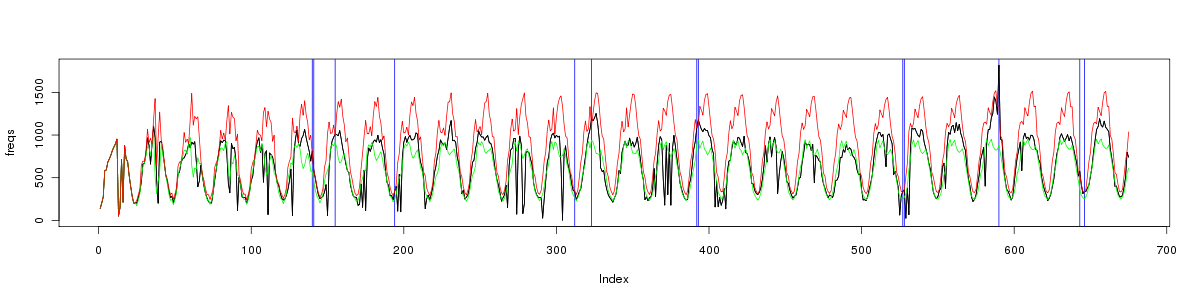
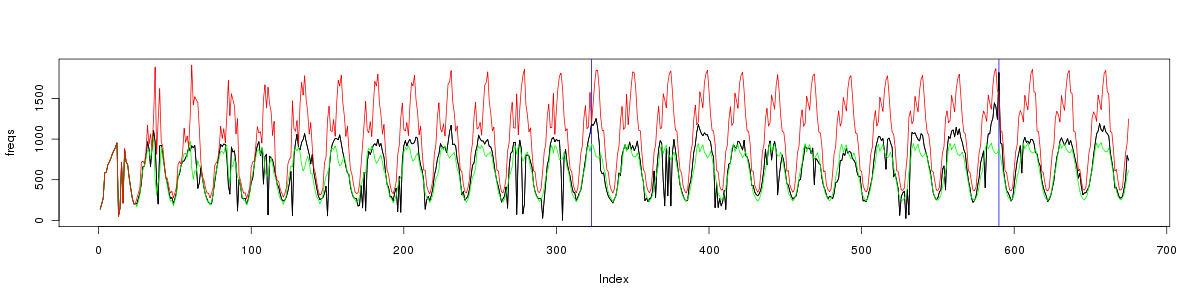
trends per 2grams, examples for apple juice, cream cheese, goats cheese etc

diff --git a/blognotes.html b/blognotes.html
@@ -33,12 +33,9 @@ normal flucuenation we compare to mean +/- 2x std dev
 <img src="tweets_over_day.60.trending.png"/>
 <img src="tweets_over_day.60.trending.zoom.png"/>
 
+this gives us a model for the entire dataset; simplest
+
 2. mean and std dev; compared to this time in previous days
-
-slot 9 - low point
-slot 22 - high point
-
-<img src="tweets_over_day.60.hi_low_trending.png"/>
 
 makes each time series much smoother; but not as good at predicting the overall trend.
 perhaps this needs to be more than 2x the std dev??
@@ -54,7 +51,14 @@ to same time of day the data is quite stable.
 <img src="tweets_over_day.60.periodic_trending.sliding.png"/>
 <img src="tweets_over_day.60.periodic_trending.sliding.zoom.png"/>
 
-3. per terms; mean and std dev over entire set
+slot 9 - low point
+slot 22 - high point
+
+<img src="tweets_over_day.60.hi_low_trending.png"/>
+
+this gives us model per 1hr chunk of the day; works well for values which are 'trending' even though the values are on the downturn
+
+3. mean and std dev; per term
 
 break down in terms in 1/2/3 grams
 
@@ -62,13 +66,35 @@ break down in terms in 1/2/3 grams
 1.5e6 uniq 2grams; 75% of which are uniq
 3.1e6 uniq 3grams; 86% of which are uniq
 
-so for breaking down into 3grams for trending what cutoff do i need to 
-make? no need to calculate for those that have only appeared a few number
-of times...
+
+#4 22532 grilled cheese
+<img src="tweets_over_day.60.grilledcheese.trending.png"/>
+<!--<img src="tweets_over_day.60.grilledcheese.trending.zoom.png"/>-->
+
+#5 18639 cream cheese
+<img src="tweets_over_day.60.creamcheese.trending.png"/>
+<!--<img src="tweets_over_day.60.creamcheese.trending.zoom.png"/>-->
+
+#412 763 goats cheese
+<img src="tweets_over_day.60.goatscheese.trending.png"/>
+<!--<img src="tweets_over_day.60.goatscheese.trending.zoom.png"/>-->
+
+#1483 288 apple juice
+<img src="tweets_over_day.60.applejuice.trending.png"/>
+
+#1434274 1 bus number
+
+433534 -> 1589981 are all frequency 1
+
+how to allow smaller frequency trends to trump trends of larger frequency items?
+while not letting low values to blow everything up 
+ie a 'freq' of 5 (from trend value of 2)
+perhaps trend value = Math.log10(freq) * (freq/min_trend)
+
+TODO
 
 4. per term; mean and std dev comapred to this time previous days
 ------------------------------------
-
 
 how can we notice when whether the direction has changed? is this stable?
 

diff --git a/specs/trend_spec.rb b/specs/trend_spec.rb
@@ -1,6 +1,6 @@
 require "#{File.dirname(__FILE__)}/../trend.rb"
 
-describe 'trending' do
+describe 'trending without zero values' do
   before do
     @trend = Trend.new([1,2,1,2,3])
   end
@@ -14,3 +14,73 @@ describe 'trending' do
   end
 
 end
+
+describe 'trending with zero values' do
+  before do
+    @trend = Trend.new([1,2,0,2,2])
+  end
+
+  it 'should cal min_trend value' do
+    @trend.min_trending_value.should == 3.0
+  end 
+end
+
+describe 'trending adding values explicitly' do
+  before do 
+    @trend = Trend.new
+    [1,2,0,2,2].each { |e| @trend << e }
+  end
+
+  it 'should behave the same' do
+    @trend.min_trending_value.should == 3.0
+  end
+end
+
+describe 'sliding window' do
+  describe 'adding values' do
+    it 'should remove values as the window slides' do
+      @trend = Trend.new [], true, 3
+      @trend << 3
+      @trend.oldest_value.should == 3
+      @trend << 4
+      @trend.oldest_value.should == 3
+      @trend << 5
+      @trend.oldest_value.should == 3
+      @trend << 6
+      @trend.oldest_value.should == 4
+    en
+  end
+end
+
+=begin
+describe 'adding values by index' do
+
+  describe 'with explicit zeros' do
+
+    before do 
+      @trend = Trend.new
+      [1,2,0,2,2].each_with_index { |e,idx| @trend.add_indexed e, idx }
+    end
+
+    it 'should behave the same' do
+      @trend.min_trending_value.should == 3.0
+    end
+
+  end
+
+  describe 'with explicit zeros' do
+
+    before do 
+      @trend = Trend.new
+      [1,2,0,2,2].each_with_index { |e,idx| @trend.add_indexed e, idx }
+    end
+
+    it 'should behave the same' do
+      @trend.min_trending_value.should == 3.0
+    end
+
+  end
+
+end
+=end
+

diff --git a/parse.rb b/parse.rb
@@ -12,14 +12,20 @@ class String
   end
 end
 
-def weekly_timeslot_for time, min_bucket_size
+def weekly_timeslot_for time, bucket_size_mins
   minutes_since_start_of_week = time.wday * 24 * 60 + time.hour * 60 + time.min
-  minutes_since_start_of_week / min_bucket_size
+  minutes_since_start_of_week / bucket_size_mins
 end
 
-def daily_timeslot_for time, min_bucket_size
-  minutes_since_midnight = time.hour * 60 + time.min
-  minutes_since_midnight / min_bucket_size
+def daily_timeslot_for time, bucket_size_mins
+  daily_timeslot_since_epoch_for(time, bucket_size_mins) % 24
+end
+
+def daily_timeslot_since_epoch_for time, bucket_size_mins
+  @epoch ||= time
+  days_since_epoch = time - @epoch
+  minutes_since_since_epoch = days_since_epoch * 24 * 60
+  (minutes_since_since_epoch / bucket_size_mins).to_i
 end
 
 def for_each_post_from_stdin

diff --git a/generate_images.rb b/generate_images.rb
@@ -73,9 +73,12 @@ EOF
 
 end
 
-#trending_graph_with_zoom_in_for 'tweets_over_day.60.trending'
-#trending_graph_with_zoom_in_for 'tweets_over_day.60.periodic_trending'
-#trending_graph_with_zoom_in_for 'tweets_over_day.60.periodic_trending.sliding'
+['tweets_over_day.60.trending','tweets_over_day.60.periodic_trending','tweets_over_day.60.periodic_trending.sliding'].each do |file|
+  trending_graph_with_zoom_in_for file
+end
+['grilledcheese', 'creamcheese', 'goatscheese', 'applejuice'].each do |ngram|
+  trending_graph "tweets_over_day.60.#{ngram}.trending", false
+end
 #tweets_over_day
 hi_low_over_day
 

diff --git a/2gram_trends.rb b/2gram_trends.rb
@@ -1,0 +1,13 @@
+#!/usr/bin/env ruby
+
+['grilled cheese', 'cream cheese', 'goats cheese', 'apple juice'].each do |two_gram|
+  terms = two_gram.split
+  cmd = "cat 2grams_over_day | "
+  cmd += "grep -P '\\t" + terms.join("\\t") + "$' | first_number_column.pl | uniq -c | clean_whitespace.sh | "
+#  cmd += "fill_in_zeros.rb | "
+  cmd += "trending.rb > "
+  cmd += "tweets_over_day.60." + terms.join('') + ".trending.tsv"
+  puts cmd
+  puts `#{cmd}`
+end
+

diff --git a/ngrams_over_day.rb b/ngrams_over_day.rb
@@ -4,13 +4,12 @@ NGRAM_SIZE, BUCKET_SIZE = ARGV.map(&:to_i)
 require 'parse'
 
 def emit tuple
-  puts ([@timeslot] + tuple).join("\t")
+  puts ([@timeslot_since_epoch] + tuple).join("\t")
 end
 
 for_each_post_from_stdin do |datetime, tweet| 
-
-  @timeslot = daily_timeslot_for(datetime, BUCKET_SIZE)
-
+  @timeslot_since_epoch = daily_timeslot_since_epoch_for(datetime, BUCKET_SIZE)
+  
   terms = tweet.terms
   next if terms.size < NGRAM_SIZE
 

diff --git a/fill_in_zeros.rb b/fill_in_zeros.rb
@@ -1,0 +1,27 @@
+#!/usr/bin/env ruby
+
+=begin
+fill in zeros if required
+eg
+ 123 0
+ 212 1
+ 123 3
+ 123 4
+turns into
+ 123 0
+ 212 1
+ 0   2
+ 123 3
+ 123 4
+=end
+
+@last_counter = 0
+STDIN.each do |line|
+  freq, counter = line.split("\t").map(&:to_i)
+  while (@last_counter < counter)
+    puts "0\t#{@last_counter}"
+    @last_counter += 1
+  end
+  @last_counter = counter+1
+  puts "#{freq}\t#{counter}"
+end

diff --git a/tweets_over_day.rb b/tweets_over_day.rb
@@ -3,5 +3,6 @@ raise "usage: tweets_over_day.rb BUCKET_SIZE_IN_MINUTES" unless ARGV.length==1
 bucket_size = ARGV.first.to_i
 require 'parse'
 for_each_post_from_stdin do |datetime, tweet| 
-  puts daily_timeslot_for(datetime, bucket_size)
+  #puts daily_timeslot_for(datetime, bucket_size)
+  puts "#{daily_timeslot_since_epoch_for(datetime, bucket_size)}\t#{datetime}\t#{tweet}"
 end

diff --git a/trend.rb b/trend.rb
@@ -15,6 +15,10 @@ class Trend < Array
     shift if @sliding_window && length > @sliding_window_length
   end
 
+  def oldest_value
+    first
+  end
+
   def mean
     @mean ||= lambda {
       inject(:+).to_f / size
@@ -31,7 +35,7 @@ class Trend < Array
   end
 
   def min_trending_value
-    mean + (2*sd)
+    mean + (3*sd)
   end
   
   def trend_value value
